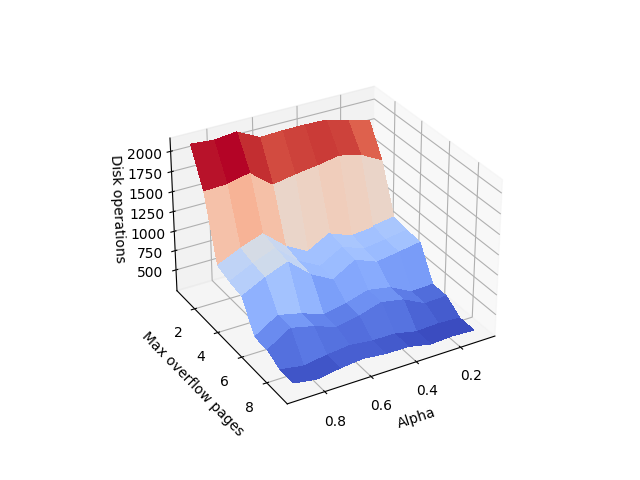
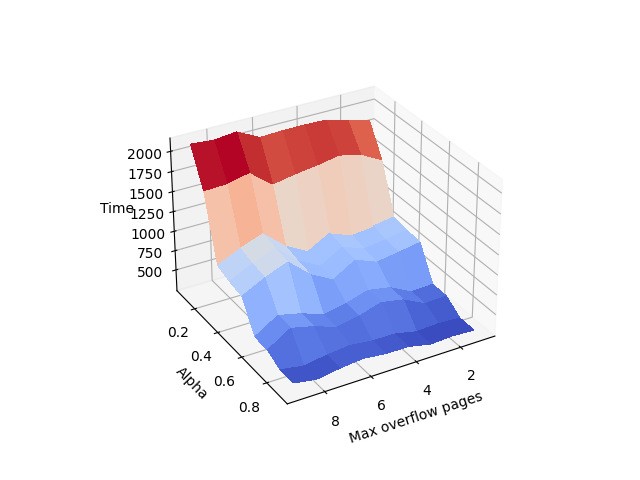
Fix plot axis

Changed region(s): [[0.5, 0.75, 0.75, 0.9375], [0.2188, 0.6875, 0.4062, 0.9062], [0.1562, 0.3125, 0.2188, 0.5312]]

diff --git a/src/data_plotter.py b/src/data_plotter.py
@@ -2,7 +2,7 @@ import matplotlib.pyplot as plt
 import numpy as np
 from matplotlib import cm
 
-RESULTS_PATH = "data/experiment/experiment_results_delete_1000.txt"
+RESULTS_PATH = "data/experiment/experiment_results_update_1000.txt"
 
 with open(RESULTS_PATH, "r") as results, open("data/experiment/results.txt", "w") as output:
     for line in results.readlines():
@@ -17,7 +17,7 @@ with open("data/experiment/results.txt", "r") as results:
 
 alphas = np.arange(0.1, 1, 0.1)
 max_pages = np.arange(1, 10, 1)
-alphas, max_pages = np.meshgrid(alphas, max_pages)
+max_pages, alphas = np.meshgrid(max_pages, alphas)
 disk_operations = [probe[2] for probe in data]
 time = [probe[3] for probe in data]
 disk_operations = np.array(disk_operations).reshape(len(alphas), len(max_pages))
@@ -25,20 +25,20 @@ time = np.array(time).reshape(len(alphas), len(max_pages))
 
 fig = plt.figure()
 ax = fig.gca(projection='3d')
-surface = ax.plot_surface(alphas, max_pages, time, cmap=cm.coolwarm,
+surface = ax.plot_surface(max_pages, alphas, time, cmap=cm.coolwarm,
                           linewidth=0, antialiased=False)
-ax.set_xlabel('Alpha')
-ax.set_ylabel('Max overflow pages')
+ax.set_xlabel('Max overflow pages')
+ax.set_ylabel('Alpha')
 ax.set_zlabel('Time')
-plt.savefig("data/plots/plot_time_delete_1000.png")
+plt.savefig("data/plots/plot_time_update_1000.png")
 
 fig = plt.figure()
 ax = fig.gca(projection='3d')
-surface = ax.plot_surface(alphas, max_pages, disk_operations, cmap=cm.coolwarm,
+surface = ax.plot_surface(max_pages, alphas, disk_operations, cmap=cm.coolwarm,
                           linewidth=0, antialiased=False)
 ax.view_init(30, 60)
-ax.set_xlabel('Alpha')
-ax.set_ylabel('Max overflow pages')
-ax.set_zlabel('Disk operations')
+ax.set_xlabel('Max overflow pages')
+ax.set_ylabel('Alpha')
+ax.set_zlabel('Time')
 
-plt.savefig("data/plots/plot_disk_delete_1000.png")
+plt.savefig("data/plots/plot_disk_update_1000.png")
